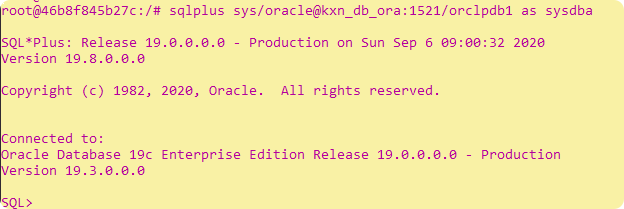
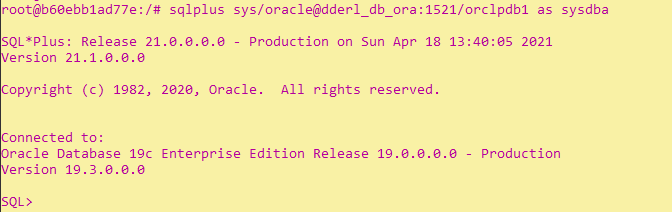
Version 4.0.0: Changes in Docker Compose & build documentation.

diff --git a/BUILD.md b/BUILD.md
@@ -28,9 +28,9 @@ The following software components are required in addition to a Unix operating s
 
 ## <a name="buildinf_dderl"></a> 2. Building DDErl
 
-The build process can either be done directly on the operating system level or based on the Konnexions development image.
+The build process can either be done directly on the operating system level or based on the DDErl development image.
 For the former, all the software components mentioned under section 1 must be installed, for the latter they are already pre-installed in the image.
-In addition, a Docker compose script is available that combines the Konnexions development image with an empty Oracle database. 
+In addition, a Docker compose script is available that combines the DDErl development image with an empty Oracle database. 
 This can be used as an easily customizable template.
 
 ## <a name="building_on_operating_system_level"></a> 2.1 Building On Operating System Level
@@ -64,7 +64,7 @@ This can be used as an easily customizable template.
 
 ## <a name="building_using_docker_containers"></a> 2.2 Building Using Docker Containers
 
-The use of Konnexions development image makes the build process independent of the host operating system.
+The use of DDErl development image makes the build process independent of the host operating system.
 The only requirement is the installation of Docker Desktop and possibly Docker Compose (Unix operating systems).
 The following instructions demonstrate how to use the Docker compose script. 
 
@@ -81,7 +81,7 @@ This command installs an executable DDErl:
 The following processing steps are performed:
 1. If not already there, download the Oracle database image and create the container `dderl_db_ora` with an Oracle database (currently 19c).
 2. If not yet available, download the Konnexion development image and create the corresponding container `dderl_dev`.
-3. Both containers are assigned to network `dderl_dev_net`.
+3. Both containers are assigned to network `dderl_default`.
 4. After the database is ready, the schema `scott` is created with the password `regit` (only with a new database container). 
 5. The repository `https://github.com/KonnexionsGmbH/dderl` is downloaded from Github (only with a new development container).
 6. The frontend to `DDErl` is created (only with a new development container).
@@ -89,7 +89,35 @@ The following processing steps are performed:
    
 ### 2.2.2. Building DDErl manually
 
-#### 2.2.2.1 Enter the Konnexions development container:
+#### 2.2.2.1 Start the Oracle database container:
+
+- if the network is not yet existing:
+
+    docker network create dderl_default
+
+- if the oracle database container is not yet existing:
+
+    docker create --shm-size 1G --name dderl_db_ora --network dderl_default -p 1521:1521/tcp -e ORACLE_PWD=oracle konnexionsgmbh/db_19_3_ee
+
+- start the Oracle database container:
+
+    docker start dderl_db_ora
+
+**Sample output:**
+
+![](priv/.BUILD_images/start_oracle_db.png)
+
+#### 2.2.2.2 Start and enter the DDErl development container:
+
+- if the DDErl development container is not yet existing:
+
+    docker create --name dderl_dev --network dderl_default -p 8443:8443 -t konnexionsgmbh/dderl_dev:latest
+
+- start the DDErl development container:
+
+    docker start dderl_dev
+
+- enter the DDErl development container:
 
     docker exec -it dderl_dev bash
     
@@ -103,7 +131,7 @@ Inside the  development container `dderl_dev` the database container `dderl_db_o
 
 ![](priv/.BUILD_images/ping.png)
 
-#### 2.2.2.2 Optionally the database can be set up
+#### 2.2.2.3 Optionally the database can be set up
     
     sqlplus sys/oracle@dderl_db_ora:1521/orclpdb1 as sysdba
     
@@ -119,7 +147,7 @@ Inside the  development container `dderl_dev` the database container `dderl_db_o
 
 ![](priv/.BUILD_images/sqlplus_2.png) 
 
-#### 2.2.2.3 Next you need to download the DDErl repository from GitHub:
+#### 2.2.2.4 Next you need to download the DDErl repository from GitHub:
 
     git clone https://github.com/KonnexionsGmbH/dderl
     cd dderl
@@ -128,7 +156,7 @@ Inside the  development container `dderl_dev` the database container `dderl_db_o
  
 ![](priv/.BUILD_images/git_clone.png)
 
-#### 2.2.2.4 Then the frontend to `DDErl` has to be created:
+#### 2.2.2.5 Then the frontend to `DDErl` has to be created:
 
     ./build_fe.sh
     
@@ -140,7 +168,7 @@ Inside the  development container `dderl_dev` the database container `dderl_db_o
     
 ![](priv/.BUILD_images/yarn_end.png)
 
-#### 2.2.2.5 Now you can either execute one of the commands from section 2.1 point 4 or start DDErl directly with `rebar3 shell`:
+#### 2.2.2.6 Now you can either execute one of the commands from section 2.1 point 4 or start DDErl directly with `rebar3 shell`:
 
     rebar3 shell
     
